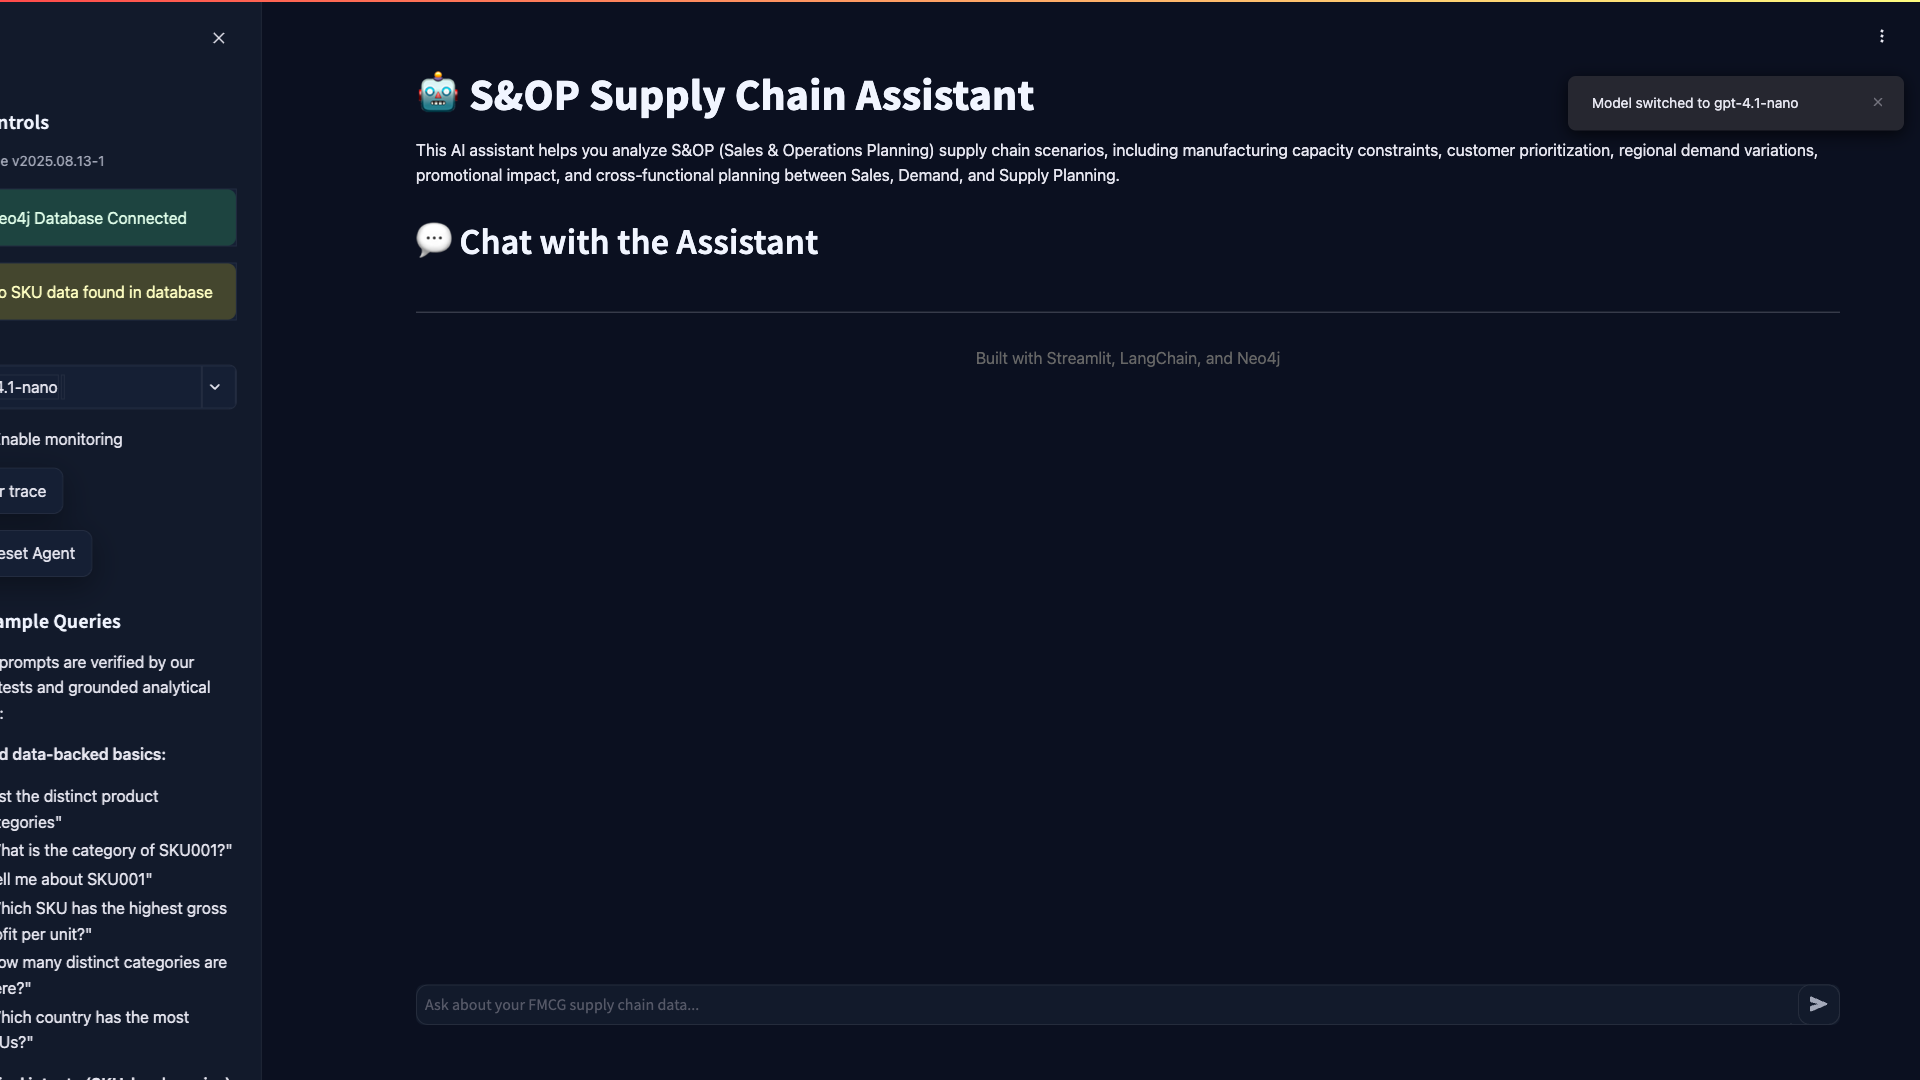
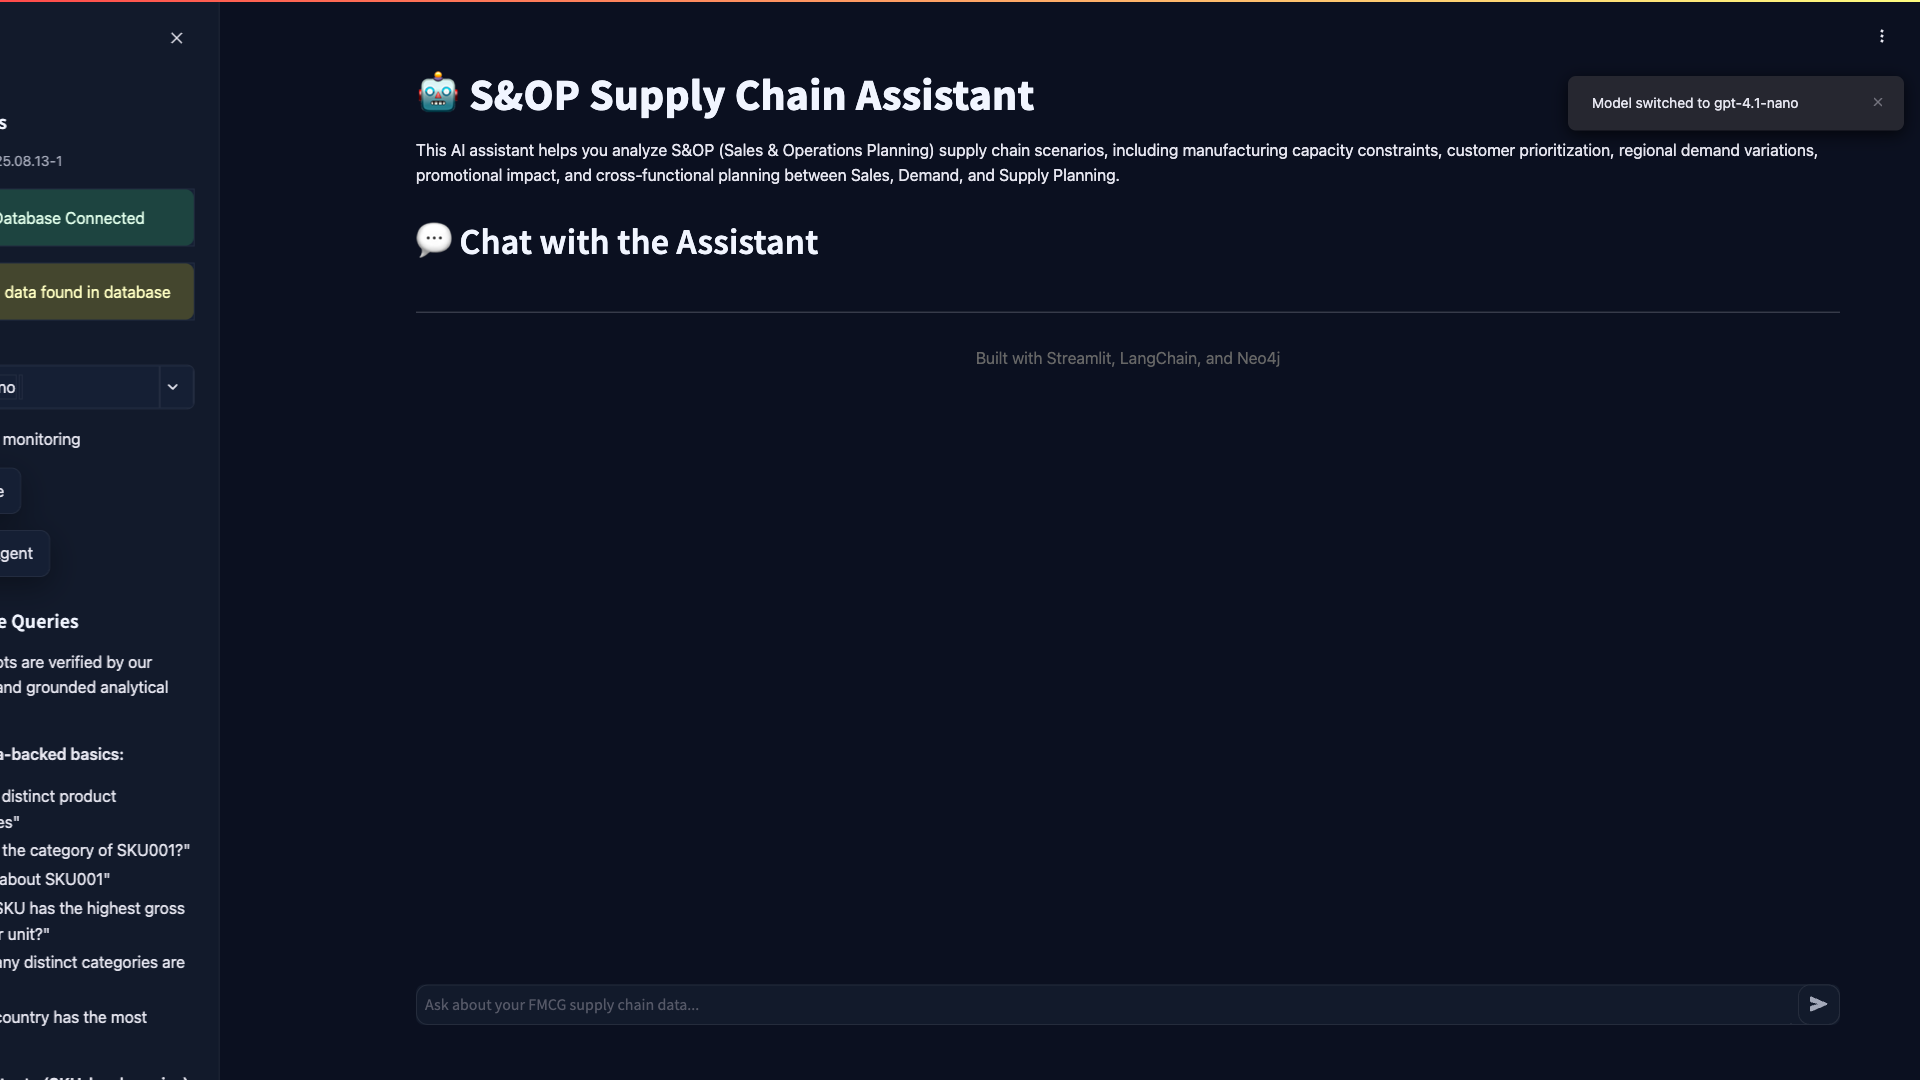
🚀 Force Railway to use correct configuration
- Remove conflicting TOML files that may confuse Railway
- Ensure railway.toml with python main.py is the only config
- Add troubleshooting script for deployment debugging

This should force Railway to redeploy with the modern React UI!

diff --git a/troubleshoot.py b/troubleshoot.py
@@ -1,0 +1,76 @@
+#!/usr/bin/env python3
+"""
+Troubleshoot Railway deployment
+"""
+
+import os
+import sys
+
+print("🔍 Railway Deployment Troubleshooting")
+print("====================================")
+
+print(f"📁 Current working directory: {os.getcwd()}")
+print(f"🐍 Python executable: {sys.executable}")
+print(f"🌍 Environment variables:")
+for key in ['PORT', 'RAILWAY_ENVIRONMENT', 'RAILWAY_SERVICE_NAME', 'NODE_ENV']:
+    value = os.environ.get(key, 'NOT SET')
+    print(f"   {key}: {value}")
+
+print(f"\n📁 Directory contents:")
+for item in sorted(os.listdir('.')):
+    if os.path.isfile(item):
+        size = os.path.getsize(item)
+        print(f"   📄 {item} ({size} bytes)")
+    else:
+        print(f"   📁 {item}/")
+
+print(f"\n📄 Railway configuration files:")
+railway_files = ['railway.toml', 'railway-advanced.toml', 'railway-multi.toml', 'railway-frontend.toml']
+for file in railway_files:
+    if os.path.exists(file):
+        print(f"   ✅ {file} exists")
+        with open(file, 'r') as f:
+            content = f.read()
+            print(f"      Content preview: {content[:200]}...")
+    else:
+        print(f"   ❌ {file} missing")
+
+print(f"\n📦 React build status:")
+dist_exists = os.path.exists('dist')
+print(f"   dist/ folder exists: {dist_exists}")
+if dist_exists:
+    dist_files = os.listdir('dist')
+    print(f"   dist/ contents: {', '.join(dist_files)}")
+
+print(f"\n🗂 Python files:")
+python_files = ['main.py', 'bot.py', 'bot_supplygraph.py', 'advanced_api_server.py']
+for file in python_files:
+    if os.path.exists(file):
+        print(f"   ✅ {file} exists")
+    else:
+        print(f"   ❌ {file} missing")
+
+print(f"\n🚀 What should be running:")
+print(f"   Expected start command: python main.py")
+print(f"   Health check path: /health")
+print(f"   Expected port: 8000 (or $PORT)")
+
+if __name__ == "__main__":
+    print(f"\n🧪 Testing imports:")
+    try:
+        import fastapi
+        print(f"   ✅ FastAPI available: {fastapi.__version__}")
+    except ImportError as e:
+        print(f"   ❌ FastAPI import error: {e}")
+    
+    try:
+        import uvicorn
+        print(f"   ✅ Uvicorn available")
+    except ImportError as e:
+        print(f"   ❌ Uvicorn import error: {e}")
+    
+    print(f"\n🎯 Next steps:")
+    print(f"   1. Check Railway dashboard for actual start command")
+    print(f"   2. Verify railway.toml is being used")
+    print(f"   3. Check build logs for errors")
+    print(f"   4. Ensure main.py is the entry point")
